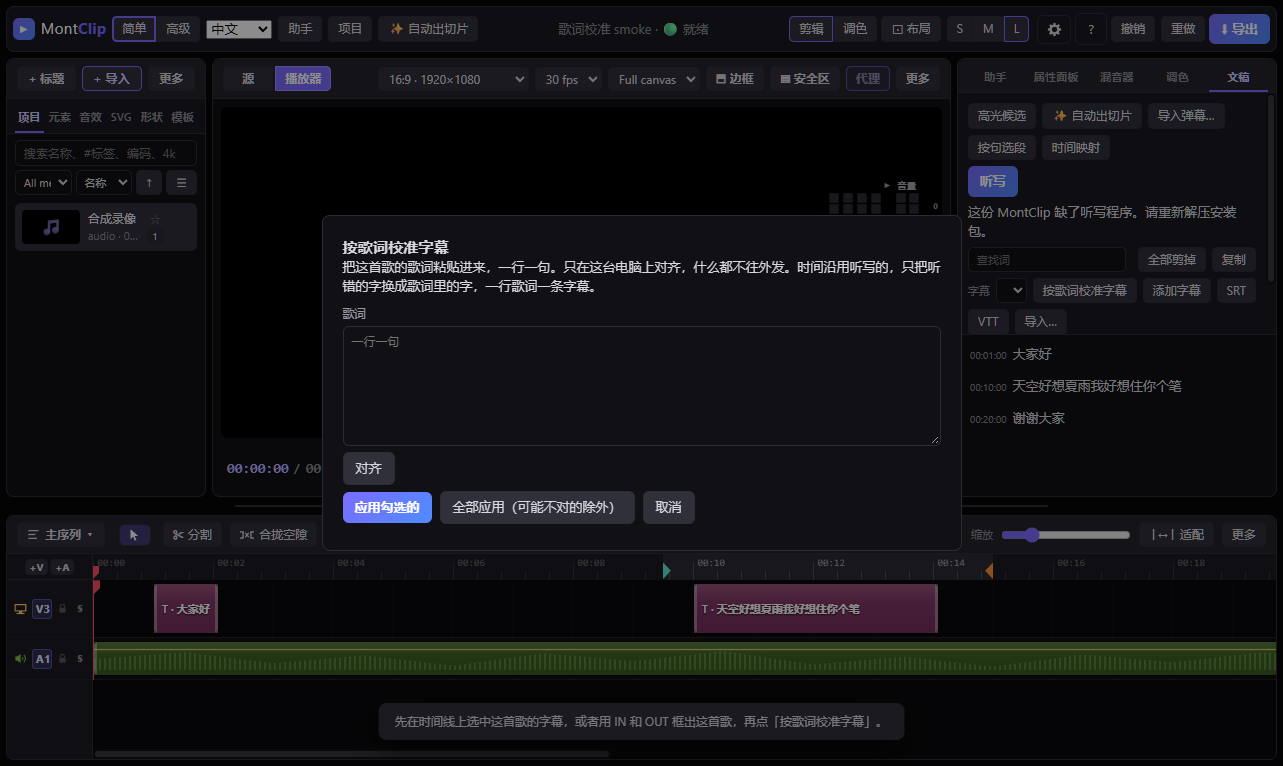
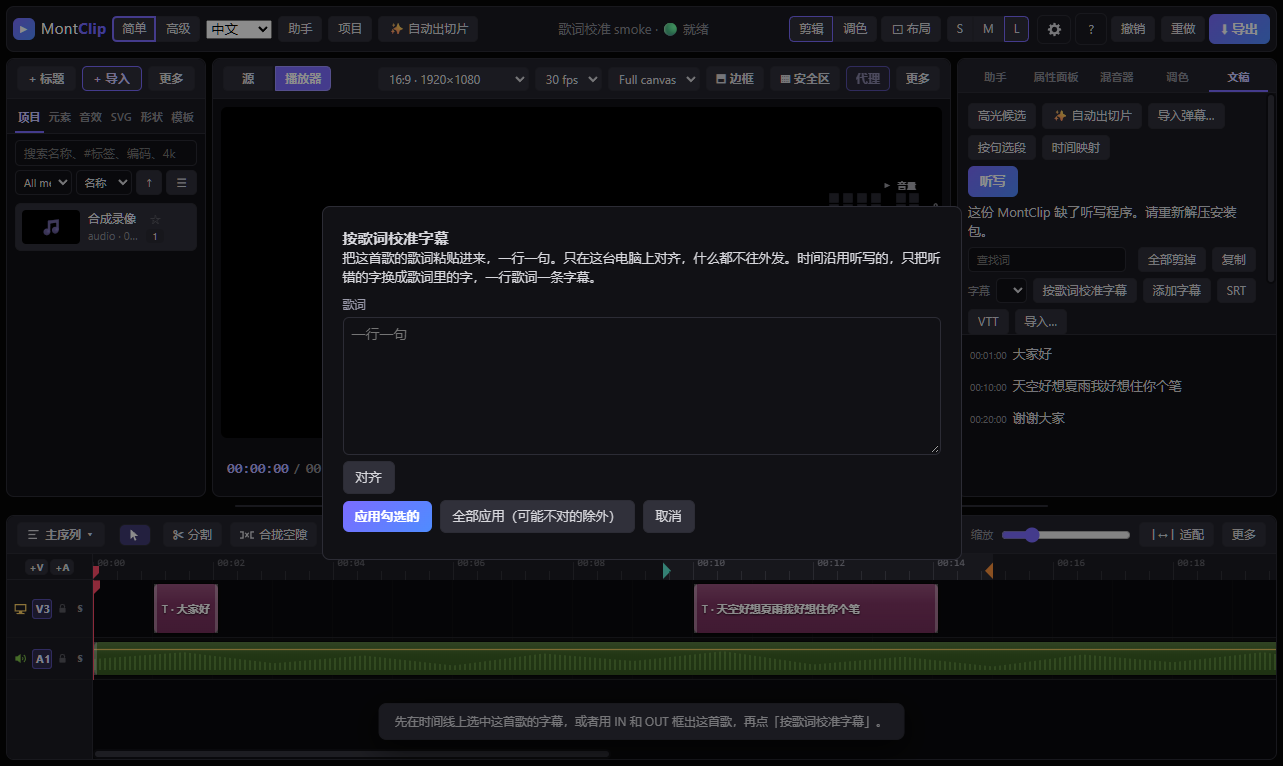
fix(lyrics): the lyrics box's text at 14px (VV on #104); picture replaced
Assisted-by: Cindy (https://cindy.app)

Changed region(s): [[0.2494, 0.5705, 0.5612, 0.7206], [0.2494, 0.3003, 0.7482, 0.4504]]

diff --git a/docs/demo/style.css b/docs/demo/style.css
@@ -5008,7 +5008,7 @@ body[data-mc-mode] .upper > .inspector { grid-column:3; grid-row:1; }
 .ly-dialog textarea { width: 100%; box-sizing: border-box; }
 /* the lyrics box is an editor field (.dlv-f, as in the export dialog): its label above it, room around it (VV on #100) */
 .ly-dialog .ly-paste { margin: 10px 0 6px; }
-.ly-dialog .ly-paste textarea { line-height: 1.5; }
+.ly-dialog .ly-paste textarea { font-size: 14px; line-height: 1.5; }
 .ly-dialog .tr-row { display: flex; flex-wrap: wrap; gap: 8px; margin: 6px 0; }
 .ly-lines { padding-left: 22px; margin: 6px 0; }
 .ly-lines li { margin: 4px 0; }

diff --git a/style.css b/style.css
@@ -5008,7 +5008,7 @@ body[data-mc-mode] .upper > .inspector { grid-column:3; grid-row:1; }
 .ly-dialog textarea { width: 100%; box-sizing: border-box; }
 /* the lyrics box is an editor field (.dlv-f, as in the export dialog): its label above it, room around it (VV on #100) */
 .ly-dialog .ly-paste { margin: 10px 0 6px; }
-.ly-dialog .ly-paste textarea { line-height: 1.5; }
+.ly-dialog .ly-paste textarea { font-size: 14px; line-height: 1.5; }
 .ly-dialog .tr-row { display: flex; flex-wrap: wrap; gap: 8px; margin: 6px 0; }
 .ly-lines { padding-left: 22px; margin: 6px 0; }
 .ly-lines li { margin: 4px 0; }
